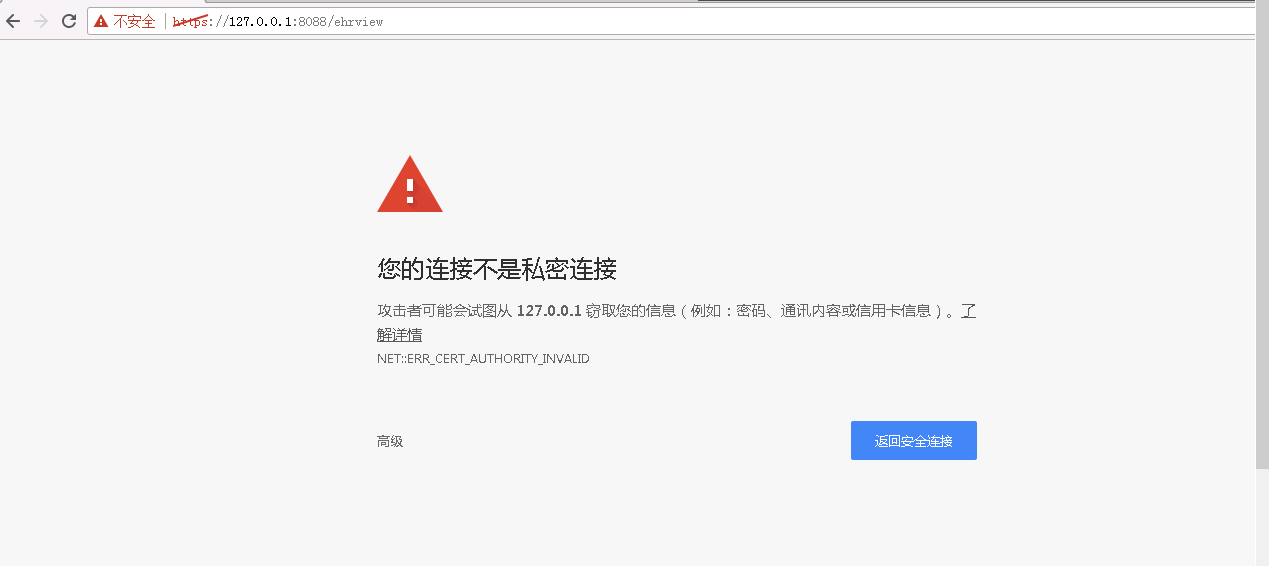
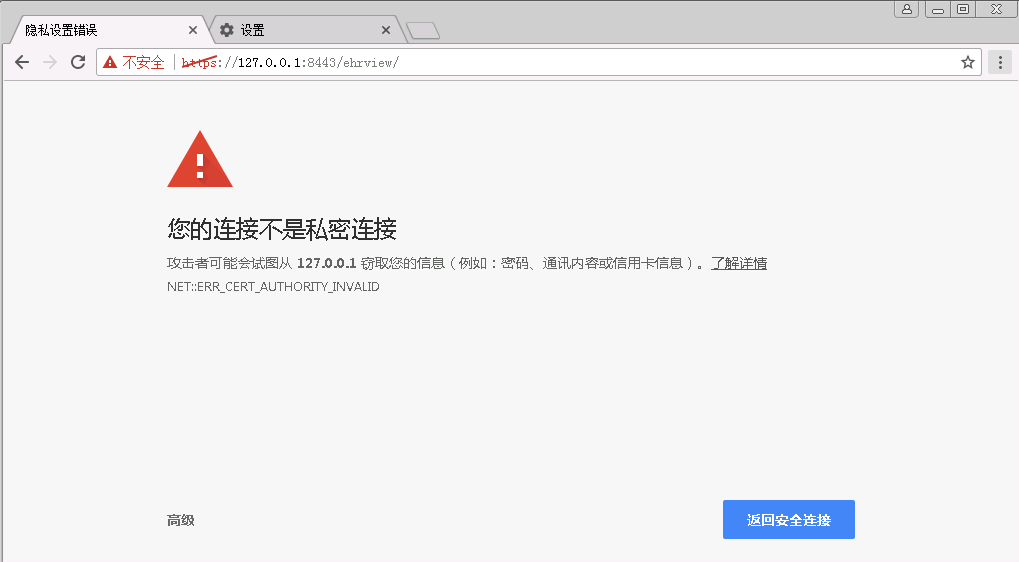
最后调整

diff --git a/README.md b/README.md
@@ -9,13 +9,13 @@
 ## 本地配置
 * 1、Ctrl + R 打开命令 , 进入 cmd 控制台 <br>
 
-![Image text](https://github.com/Vico-cuiym/HttpToHttps.github.io/blob/master/Ctrl%2BR.png)
+![Image text](https://github.com/Vico-cuiym/HttpToHttps.github.io/blob/master/imgs/Ctrl%2BR.png)
 
 * 2、进入JDK安装路径 , 以我为例 : C:\Program Files\Java\jdk1.8.0_161\bin;<br>
 进入该目录 , 执行如下命令 : `keytool -genkeypair -alias "tomcat" -keyalg "RSA" -keystore "D:\tomcat.keystore"` ;
-![Image text](https://github.com/Vico-cuiym/HttpToHttps.github.io/blob/master/cmd.png)<br>
+![Image text](https://github.com/Vico-cuiym/HttpToHttps.github.io/blob/master/imgs/cmd.png)<br>
 接着填写一些基本信息<br>
-![Image text](https://github.com/Vico-cuiym/HttpToHttps.github.io/blob/master/keytool.png)<br>
+![Image text](https://github.com/Vico-cuiym/HttpToHttps.github.io/blob/master/imgs/keytool.png)<br>
 简单介绍下填写的内容
 <pre><code>密钥库口令:123456（这个密码非常重要 , 后面会用到）
 名字与姓氏:127.0.0.1（以后访问的域名或IP地址，非常重要，证书和域名或IP绑定）
@@ -41,8 +41,13 @@
     >其实就是添加`keystoreFile`和`keystorePass`两个属性 
     >>`keystoreFile`为生成证书地址 , 建议放在启动的Tomcat中
     >>`keystorePass`为密钥库口令
-    * 3.3、注释Tomcat路径中conf\server.xml文件中下面一行。<br>
-    <code><pre>&lt;!--&lt;Listener SSLEngine="on" className="org.apache.catalina.core.AprLifecycleListener"/&gt;--&gt;</code></pre>
+    * 3.3、注释Tomcat路径中conf\server.xml文件中下面一行。
+    <code><pre>
+    &lt;!--&lt;Listener SSLEngine="on" className="org.apache.catalina.core.AprLifecycleListener"/&gt;--&gt;
+    </code></pre>
+    * 最后访问链接：https://127.0.0.1:8443/项目名称/ , 就可以看见https的安全认证页面了
+    ![Image text](https://github.com/Vico-cuiym/HttpToHttps.github.io/blob/master/imgs/Privatelink.png.png)<br>
+
 
 # 🚨以下为参考文档🚨
 [安装JDK的教程](https://jingyan.baidu.com/article/6dad5075d1dc40a123e36ea3.html)<br>
